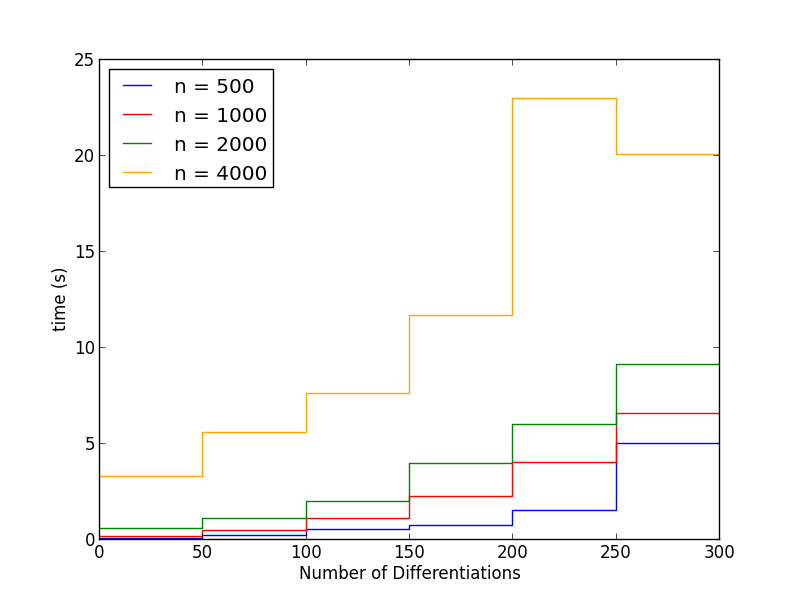
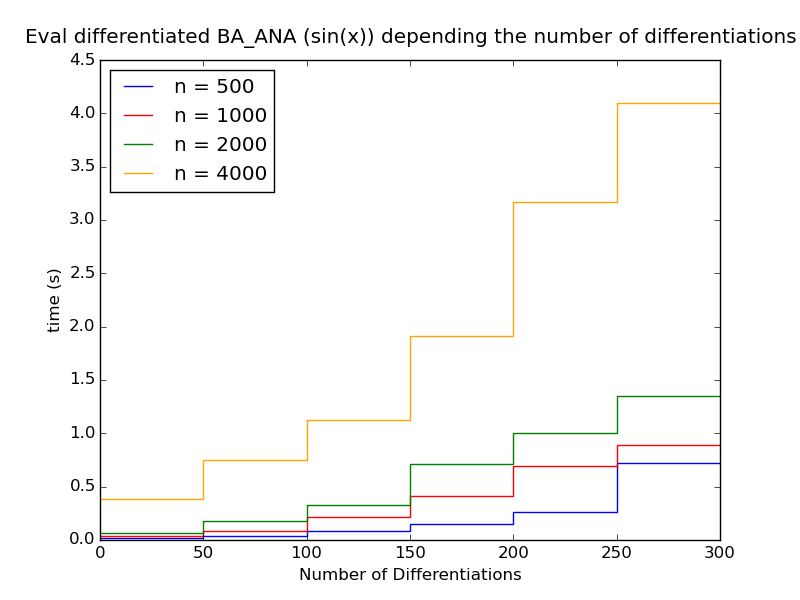
changed picture for differentiation of analytic function

Changed region(s): [[0.0312, 0.03, 1.0, 0.99], [0.0625, 0.33, 0.125, 0.66], [0.0938, 0.69, 0.125, 0.75]]

diff --git a/tex/analytic_functions/analytic.tex b/tex/analytic_functions/analytic.tex
@@ -706,7 +706,7 @@
 			\end{figure}
 			\begin{figure}[h]
 				\centering
-				\includegraphics[width=0.5\textwidth]{img/analytic/ba_ana_dep_on_diff_sin.png}
+				\includegraphics[width=0.7\textwidth]{img/analytic/ba_ana_dep_on_diff_sin.png}
 				\caption{running time evaluating differentiated \baana with series for $\sin(x)$ at fixed point $x=0.8$ with different number
         of desired valid decimals depending on the number of differentiation}
 				\label{fig:ba_ana dep on differentiation}
@@ -724,7 +724,8 @@
       Thus, the results obtained are very general and should hold for all kind of functions (as long as the complexity to compute
       the series is similiar).
 
-      \ref{fig:ba_ana dep on differentiation} shows how the running time depends on the number of differentiation. \temp{This picture is strange and should be replaced}
+      \ref{fig:ba_ana dep on differentiation} shows how the running time
+      depends on the number of differentiation. 
 
       Other operations like addition and multiplication yield similiar running times and the results are therefore omitted.
 
